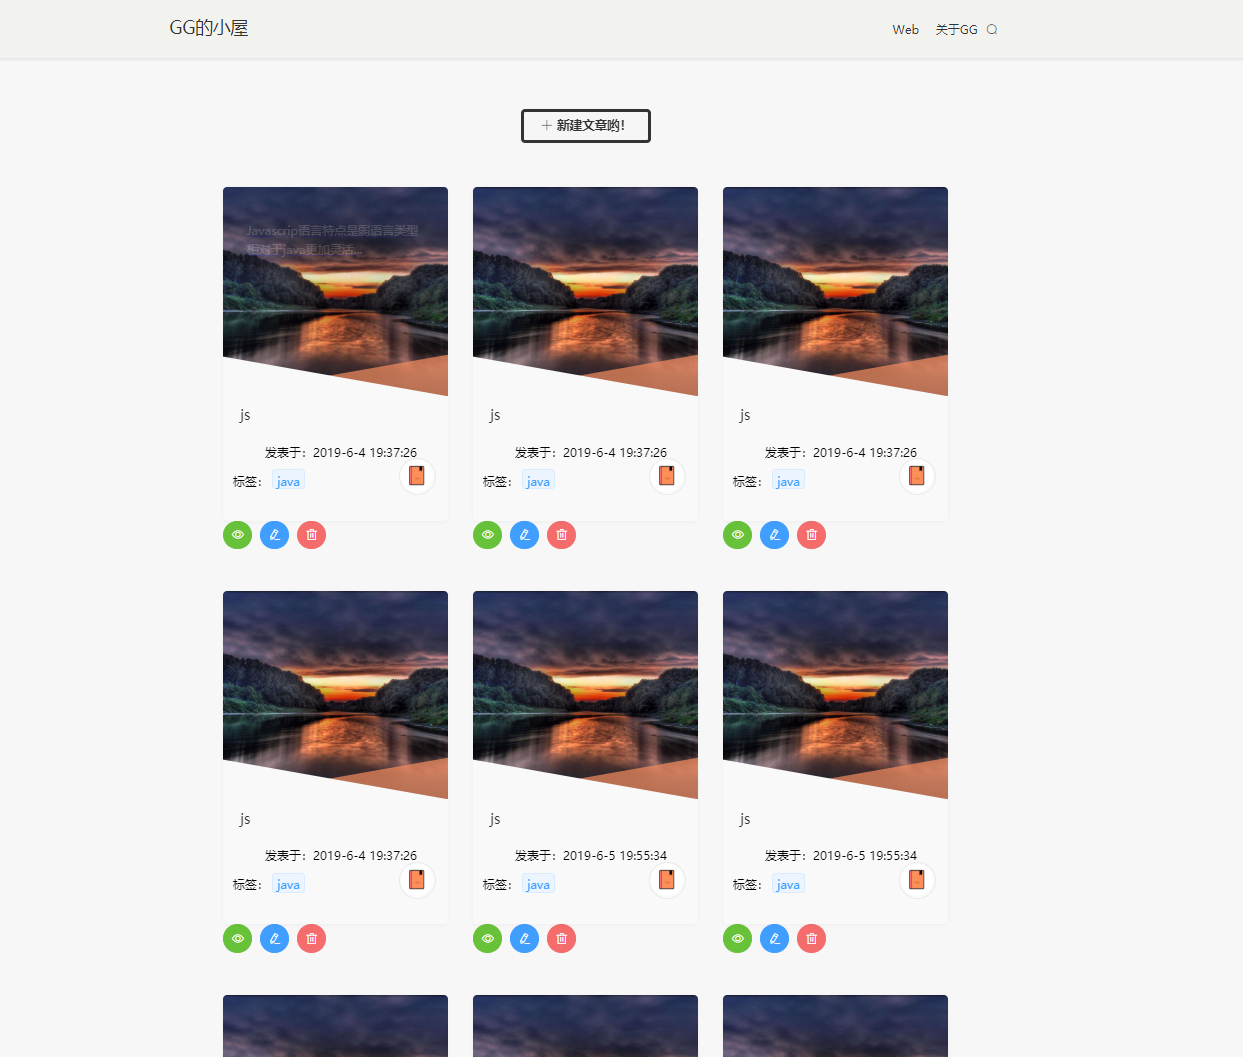
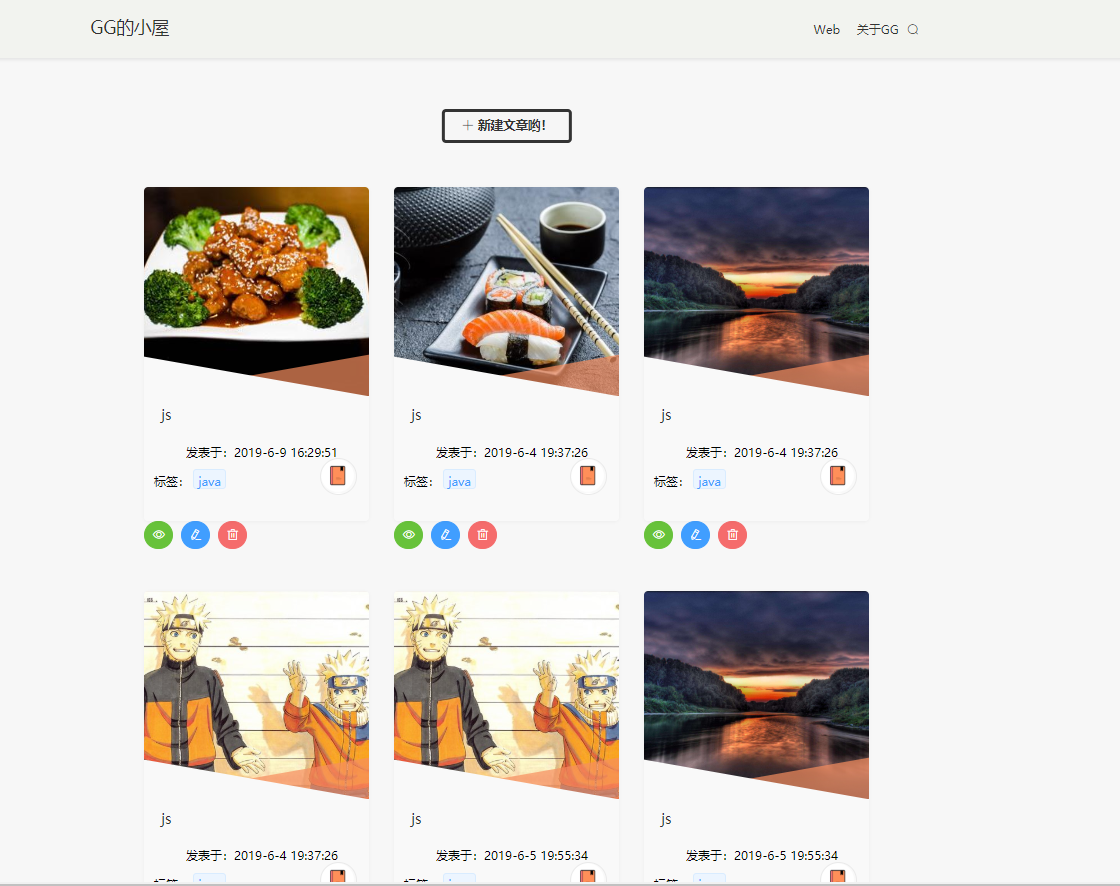
更新图片，及更改配置

diff --git a/client/vue.config.js b/client/vue.config.js
@@ -37,7 +37,7 @@ module.exports = {
     pwa: { // 单页插件相关配置 https://github.com/vuejs/vue-cli/tree/dev/packages/%40vue/cli-plugin-pwa
     },
     devServer: {
-        open: false,
+        open: true,
         host: 'localhost',
         port: 8080,
         https: false,
